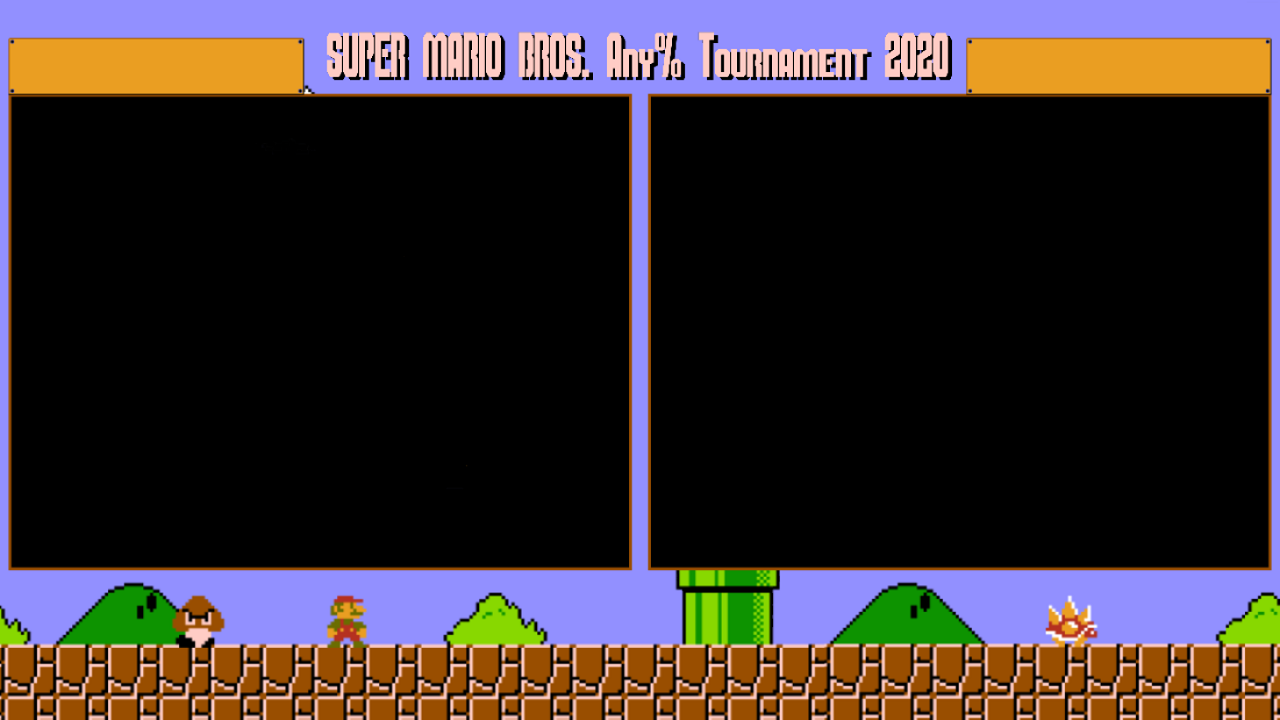
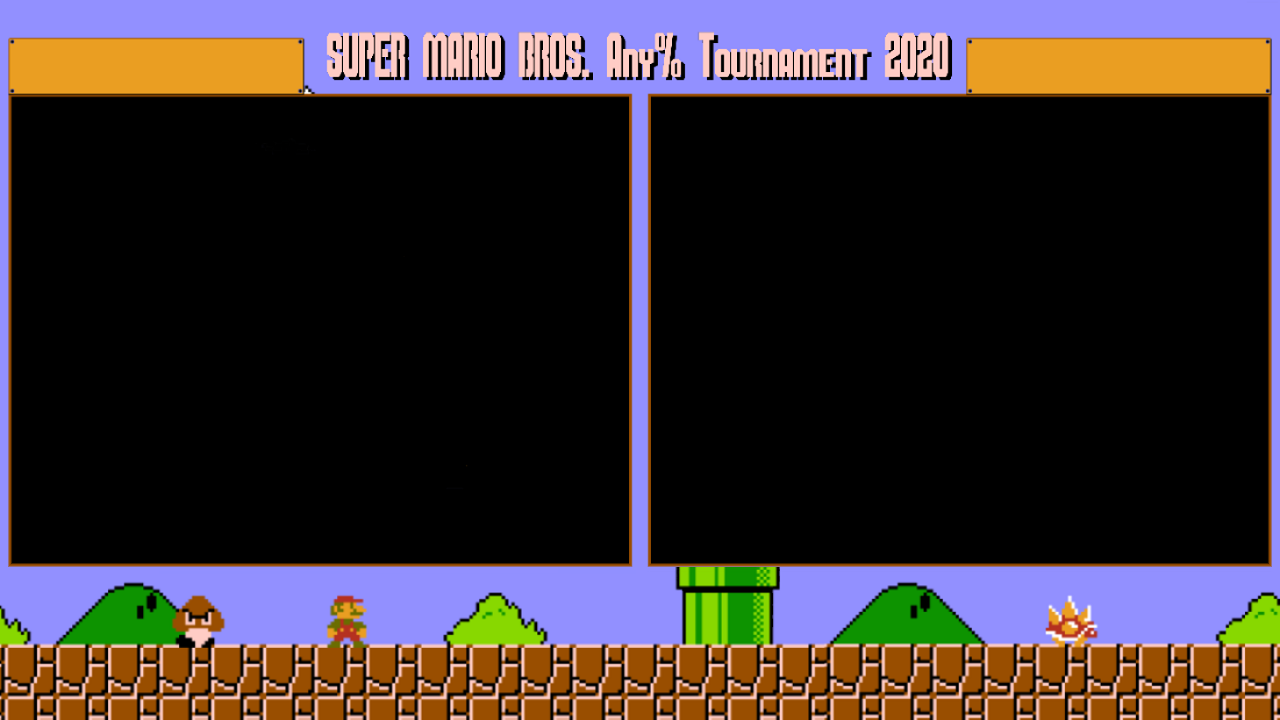
背景画像差し替えとCSS調整

Changed region(s): [[0.0, 0.7639, 1.0, 0.7944]]

diff --git a/src/browser/graphics/views/smb.tsx b/src/browser/graphics/views/smb.tsx
@@ -156,13 +156,13 @@ const App: React.SFC = () => {
 			// 映像の領域を切り取り
 			ctx.globalCompositeOperation = 'xor';
 
-			const gameW = 616;
-			const gameH = 470;
+			const gameW = 618;
+			const gameH = 466;
 
 			// ゲーム1
-			ctx.fillRect(12, 97, gameW, gameH);
+			ctx.fillRect(11, 97, gameW, gameH);
 			// ゲーム2
-			ctx.fillRect(12 + 23 + gameW + 1, 97, gameW, gameH);
+			ctx.fillRect(11 + 21 + gameW + 1, 97, gameW, gameH);
 		});
 	});
 
@@ -247,7 +247,15 @@ const App: React.SFC = () => {
 				</div>
 			</div>
 
-			<Clock fontSize={22} top={665} left={10} />
+			<Clock
+				fontSize={22}
+				top={655}
+				left={10}
+				color={'yellow'}
+				backgroundColor={'#994e00'}
+				padding={5}
+				borderRadius={5}
+			/>
 
 			<img className={classes.logo} src={logo} />
 

diff --git a/src/browser/graphics/components/clock.tsx b/src/browser/graphics/components/clock.tsx
@@ -20,6 +20,9 @@ type Props = {
 	fontSize: number;
 	color?: string;
 	type?: 'multiline' | 'line';
+	padding?: string | number;
+	backgroundColor?: string;
+	borderRadius?: string | number;
 };
 
 export const Clock: React.SFC<Props> = (props: Props) => {
